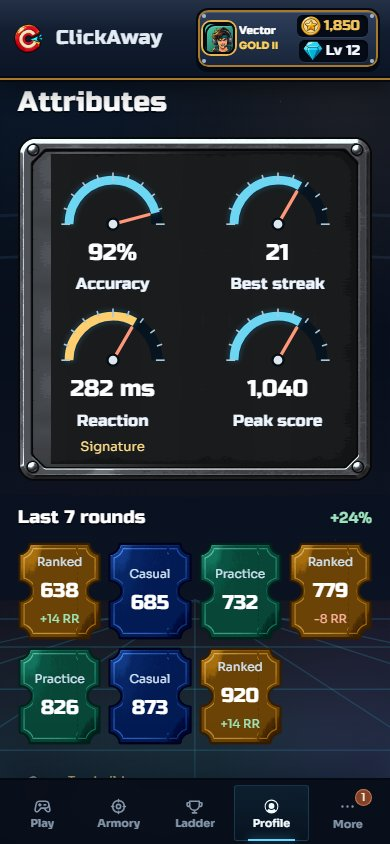
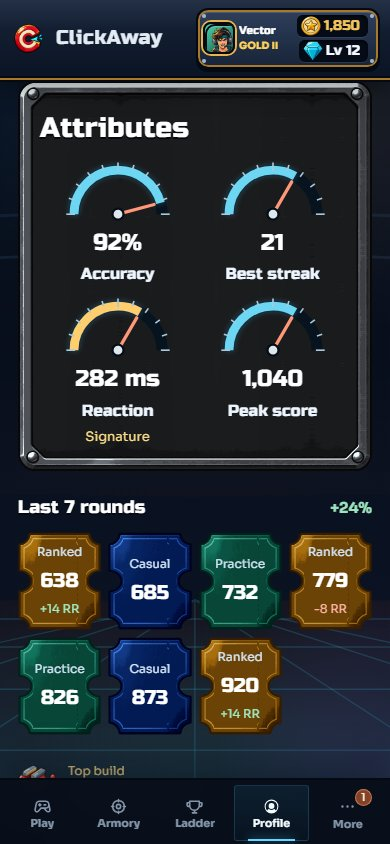
1.) Problem: The Attributes title sat outside its panel, and the silver face had a dark gutter bar and a light-to-dark fade on the left. 2.) Solution: Put the title inside the panel and give it a flat-faced silver plate that follows the angled corners.

Changed region(s): [[0.0308, 0.0924, 0.9538, 0.9242]]

diff --git a/src/styles/components/profile.css b/src/styles/components/profile.css
@@ -26,7 +26,9 @@
 .profilePanelHeading { display: flex; align-items: end; justify-content: space-between; gap: 12px; margin-bottom: 18px; }
 .profileSectionKicker { color: #e7ca83; font-size: 13px; line-height: 1.5; }
 .profilePanelHeading h2 { margin: 5px 0 0; color: #fff; font: 28px/1.2 var(--ca-font-display); text-shadow: 0 2px #030a12; }
-.profileAttributeList { display: grid; grid-template-columns: repeat(4, minmax(0, 1fr)); gap: 0; margin: 0; padding: 26px 12px 22px; list-style: none; border: 0 solid transparent; border-image: url('/art/ladder/row-silver.png') 64 fill / 32px / 0 stretch; }
+.profileAttributeList { display: grid; grid-template-columns: repeat(4, minmax(0, 1fr)); gap: 0; margin: 0; padding: 0; list-style: none; }
+.profileAttributes { padding: 28px 30px 24px; border: 0 solid transparent; border-image: url('/art/profile/attr-plate.png') 64 fill / 32px / 0 stretch; }
+.profileAttributes .profilePanelHeading { margin-bottom: 8px; }
 .profileAttribute { position: relative; display: flex; flex-direction: column; align-items: center; min-width: 0; padding: 4px 8px; text-align: center; }
 .profileAttributeLabel { order: 3; display: grid; gap: 4px; max-width: 100%; }
 .profileAttributeLabel strong { color: #edf6ff; font: 16px/1.3 var(--ca-font-display); }
@@ -80,7 +82,8 @@
     .profileAvatar { width: 186px; height: 186px; }
     .profileSheetMain { padding: 0; }
     .profileSignalBand { grid-template-columns: minmax(0,1fr); }
-    .profileAttributeList { grid-template-columns: repeat(2,minmax(0,1fr)); border-image-source: url('/art/profile/attr-plate-tall.png'); }
+    .profileAttributeList { grid-template-columns: repeat(2,minmax(0,1fr)); }
+    .profileAttributes { padding: 26px 22px 22px; border-image-source: url('/art/profile/attr-plate-tall.png'); }
     .profileSectionKicker, .profileReceiptMode, .profileStampOutcome { font-size: 12px; }
     .profileFormTokens { grid-template-columns: repeat(4,minmax(0,1fr)); }
     .profileFormToken { min-height: 98px; }
